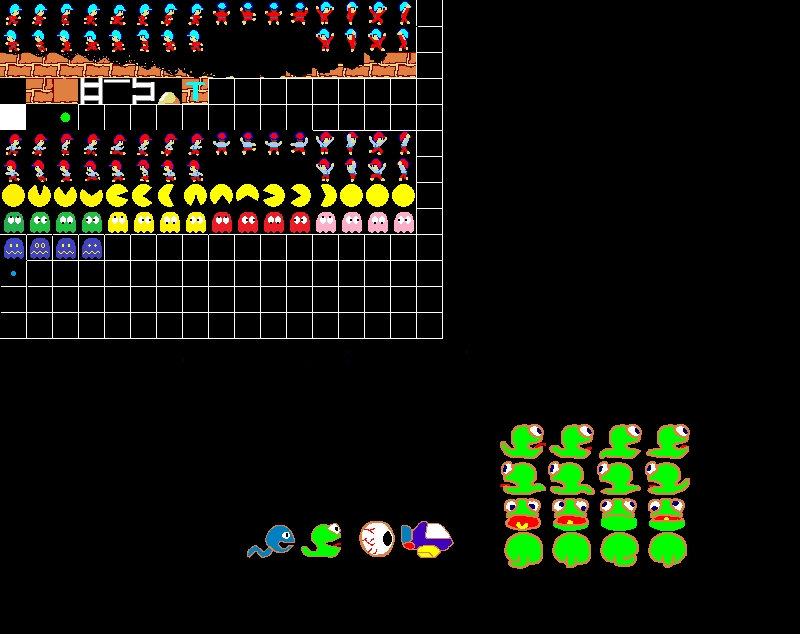
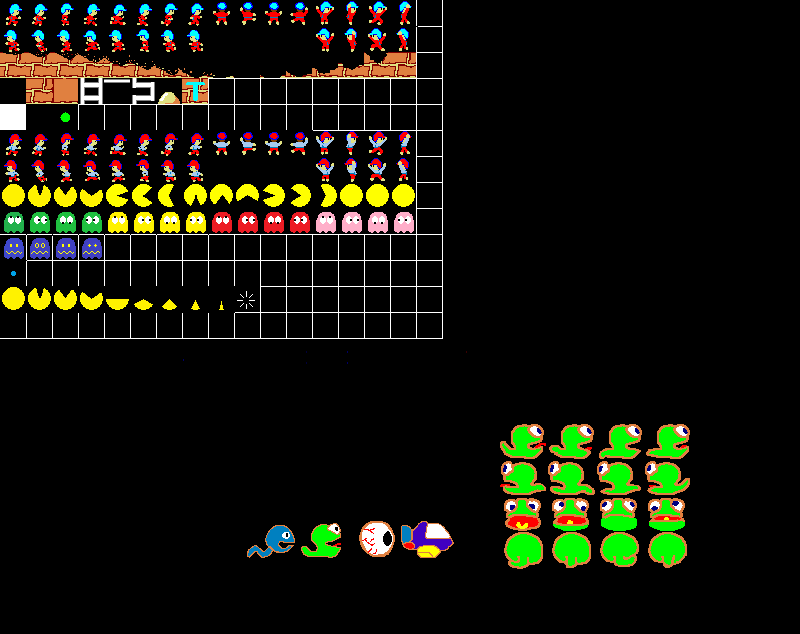
状態遷移コード追加 捕まった時のアニメーション追加

Changed region(s): [[0.0, 0.4495, 0.2812, 0.5095], [0.2812, 0.4495, 0.3125, 0.4795]]

diff --git a/gameScene.js b/gameScene.js
@@ -28,6 +28,12 @@ class GameScene {
 
         // 敵
         this._enemies = [];
+
+        // パックマンの残り数
+        this._pacRest = 3;
+
+        // 状態
+        this._state = C.PLAY_NORMAL;
     }
 
     initStage() {
@@ -117,28 +123,77 @@ class GameScene {
     }
 
     update() {
-        // パックマン移動
-        if (this._pacman) {
-            this._pacman.move();
-
-            let eatCount = this._pacman.detectCollision(this._stage);
-            this._score.incrValue(eatCount * 10);
-        }
-
-        // 敵移動
-        if (this._enemies && this._enemies.length > 0) {
-            for (let i=0; i<this._enemies.length; i++) {
-                let enemy = this._enemies[i];
-                enemy.move(this._pacman.getPos());
-                enemy.updateSprite();
-
-                // 衝突判定
-                if (enemy.detectCollision(this._pacman.getPos())) {
-                    // 捕まった
-                    console.log('Captured!!');
+        switch(this._state) {
+            case C.PLAY_NORMAL:
+                {
+                    // パックマン移動
+                    if (this._pacman) {
+                        this._pacman.move();
+            
+                        let eatCount = this._pacman.detectCollision(this._stage);
+                        this._score.incrValue(eatCount * 10);
+                    }
+            
+                    // 敵移動
+                    if (this._enemies && this._enemies.length > 0) {
+                        for (let i=0; i<this._enemies.length; i++) {
+                            let enemy = this._enemies[i];
+                            enemy.move(this._pacman.getPos());
+                            enemy.updateSprite();
+            
+                            // 衝突判定
+                            if (enemy.detectCollision(this._pacman.getPos())) {
+                                // 捕まった
+                                console.log('Captured!!');
+                                this._state = C.PLAY_DYING;
+                                this._pacman.startDyingAnim();
+                            }
+                        }
+                    }
                 }
-            }
+                break;
+            
+            case C.PLAY_POWERUP:
+                {
+                    // パワーアップ中
+                }
+                break;
+            
+            case C.PLAY_DYING:
+                {
+                    // 捕まった
+
+                    // パックマンがしおれるアニメーション
+                    if (!this._pacman.doDyingAnim())
+                    {
+                        // アニメーション終了
+                        this._pacRest--;
+
+                        if (this._pacRest === 0) {
+                            // 残りが0ならゲームオーバー
+                            return C.GAMEOVER;
+                        } else {
+                            // まだいるならリスタート
+                            this._state = C.PLAY_RESTART;
+                            this._pacman.stopDyingAnim();
+                        }
+                    }
+
+
+                }
+                break;
+
+            case C.PLAY_RESTART:
+                {
+                    // 捕まった
+
+                    // パックマンがしおれるアニメーション
+
+                }
+                break;
         }
+
+        return null;
     }
 }
 

diff --git a/pacman.js b/pacman.js
@@ -40,6 +40,12 @@ class Pacman extends Entity {
 
         // 現在のスプライトインデックス
         this._curIdx = -1;
+
+        // 死亡アニメーションカウント
+        this._dyingAnimCount = 0;
+
+        // 死亡アニメーション用タイマー
+        this._dyingAnimTimer = 0;
     }
 
     getDirec() {
@@ -85,6 +91,14 @@ class Pacman extends Entity {
         }
     }
 
+    // パックマンがしおれるアニメーション用のインデックス取得
+    //
+    // @param animCount [i] アニメーションカウント(0<=animCount<=9)
+    getSprIdxForDyingAnim(animCount) {
+        const base = 13;
+        return base + animCount;
+    }
+
     initSprite(PIXI, container) {
         this._pac = [];
 
@@ -94,6 +108,7 @@ class Pacman extends Entity {
             'pac20', 'pac21', 'pac22',
             'pac30', 'pac31', 'pac32',
             'pac40', 'pac41', 'pac42',
+            "pac_d00", "pac_d01", "pac_d02", "pac_d03", "pac_d04", "pac_d05", "pac_d06", "pac_d07", "pac_d08", "pac_d09"
         ]
         
         for (let imgName of pacImageNames) {
@@ -284,6 +299,66 @@ class Pacman extends Entity {
             }
         
         return eatCount;
+    }
+
+    // 死亡アニメーション開始
+    startDyingAnim() {
+        // 現在のスプライトを非表示にする
+        if (this._curIdx >= 0) {
+            this._pac[this._curIdx].visible = false;
+        }
+
+        // 死亡アニメーションカウンタをリセット
+        this._dyingAnimCount = 0;
+        this._dyingAnimTimer = 0;
+
+        // 新しいパックマンスプライトを表示onにする
+        let newIdx = this.getSprIdxForDyingAnim(this._dyingAnimCount);
+        // console.log(`curIdx=${curIdx}, newIdx=${newIdx}`);
+        let pSprite = this._pac[newIdx];
+        pSprite.visible = true;
+
+        let px = Math.floor(this._x * C.IMGW);
+        let py = Math.floor(this._y * C.IMGW);
+
+        pSprite.x = px;
+        pSprite.y = py;
+    }
+
+    // 死亡アニメーション終了
+    stopDyingAnim() {
+        // 現在のスプライトを非表示にする
+        if (this._curIdx >= 0) {
+            this._pac[this._curIdx].visible = false;
+        }
+
+        // 死亡アニメーションカウンタをリセット
+        this._dyingAnimCount = 0;
+    }
+
+    doDyingAnim() {
+        this._dyingAnimTimer++;
+        if (this._dyingAnimTimer >= 10) {
+            // カウンタ更新
+            this._dyingAnimTimer = 0;
+            this._dyingAnimCount++;
+
+            // 新しいパックマンスプライトを表示onにする
+            let newIdx = this.getSprIdxForDyingAnim(this._dyingAnimCount);
+            // console.log(`curIdx=${curIdx}, newIdx=${newIdx}`);
+            let pSprite = this._pac[newIdx];
+            pSprite.visible = true;
+
+            let px = Math.floor(this._x * C.IMGW);
+            let py = Math.floor(this._y * C.IMGW);
+
+            pSprite.x = px;
+            pSprite.y = py;
+
+            return (this._dyingAnimCount <= 9) ? true : false;  // 返り値がfalseならアニメーション終了
+        }
+
+        return true;
     }
 }
 

diff --git a/game.js b/game.js
@@ -5,6 +5,7 @@
 const C = require('./const');
 const { TitleScene } = require("./titleScene");
 const { GameScene } = require("./gameScene");
+const { GameOverScene } = require("./gameOverScene");
 
 class Game {
     constructor() {
@@ -20,6 +21,7 @@ class Game {
         // 各シーンオブジェクト（先に作っておく）
         this._titleScene = new TitleScene();
         this._gameScene = new GameScene();
+        this._gameOverScene = new GameOverScene();
     }
 
     initGame() {
@@ -69,13 +71,36 @@ class Game {
             if (nextMode) {
                 // シーン変更なら新しいシーンオブジェクトに切り替える
                 switch (nextMode) {
-                    case C.START:
+                    case C.TITLE:
+                        // タイトル画面
+                        break;
+
+                    case C.DEMO:
+                        // デモプレイ画面
+                        break;
+    
+                    case C.PLAY:
+                        // プレイ中
                         this._gameScene.initStage();
                         this._gameScene.initSprites(PIXI, container);
                         this._gameScene.setVisible(true);
 
                         this._currScene = this._gameScene;
                         break;
+                    
+                    case C.RESTART:
+                        // 再スタート画面
+                        this._gameScene.reinitStage();
+                        this._gameScene.setVisible(true);
+
+                        this._currScene = this._gameScene;
+                        break;
+                        
+                    case C.GAMEOVER:
+                        // ゲームオーバー
+                        break;
+                            
+
                 }
             }
         }

diff --git a/gameOverScene.js b/gameOverScene.js
@@ -1,0 +1,59 @@
+// **********************************************
+//  ゲームオーバー画面
+// **********************************************
+
+const C = require('./const');
+const PIXI = require('pixi.js');
+const { BaseScene } = require('./baseScene');
+const { Text } = require('./text');
+
+class GameOverScene extends BaseScene {
+    constructor() {
+        super();
+
+        this._container = null;
+
+        this._gameOverMsg = new Text();
+
+        this._startPressed = false;
+    }
+
+    initSprites(PIXI, container) {
+        this._container = new PIXI.Container();
+
+        this._mainTitle
+            .initSprite(PIXI, this._container)
+            .setText('Game Over')
+            .setFontSize(150)
+            .setColor('white')  // or setColor('#ffffff') is also OK
+            .setPos(350, 300);
+    
+        container.addChild(this._container);
+
+        this.setVisible(true);
+    }
+
+    setVisible(bVisible) {
+        if (this._container) {
+            this._container.visible = bVisible;
+        }
+    }
+
+    onSpacePressed() {
+        // ゲーム開始
+        this._startPressed = true;
+    }
+
+    update() {
+        if (this._startPressed) {
+            this.setVisible(false);   // このシーンの全スプライトを非表示にする
+            return C.TITLE; // 次のシーン
+        } else {
+            return null;
+        }
+    }
+}
+
+module.exports = {
+    GameOverScene
+}

diff --git a/const.js b/const.js
@@ -13,11 +13,13 @@ const LEFT = 4;
 
 const TITLE = 0;
 const DEMO = 10;
-const START = 20;
-const PLAY_NORMAL = 21;
-const PLAY_POWERUP = 22;
-const DEAD = 23;
-const GAMEOVER = 24;
+const PLAY = 20;
+const GAMEOVER = 30;
+
+const PLAY_NORMAL = 0;
+const PLAY_POWERUP = 1;
+const PLAY_DYING = 2;
+const PLAY_RESTART = 3;
 
 const AKEBEE = 0;
 const PINKY = 1;
@@ -35,11 +37,12 @@ module.exports = {
 
     TITLE,
     DEMO,
-    START,
+    PLAY,
+    GAMEOVER,
+
     PLAY_NORMAL,
     PLAY_POWERUP,
-    DEAD,
-    GAMEOVER,
+    PLAY_RESTART,
 
     AKEBEE,
     PINKY,

diff --git a/titleScene.js b/titleScene.js
@@ -63,7 +63,7 @@ class TitleScene extends BaseScene {
     update() {
         if (this._startPressed) {
             this.setVisible(false);   // このシーンの全スプライトを非表示にする
-            return C.START;
+            return C.PLAY;
         } else {
             return null;
         }
